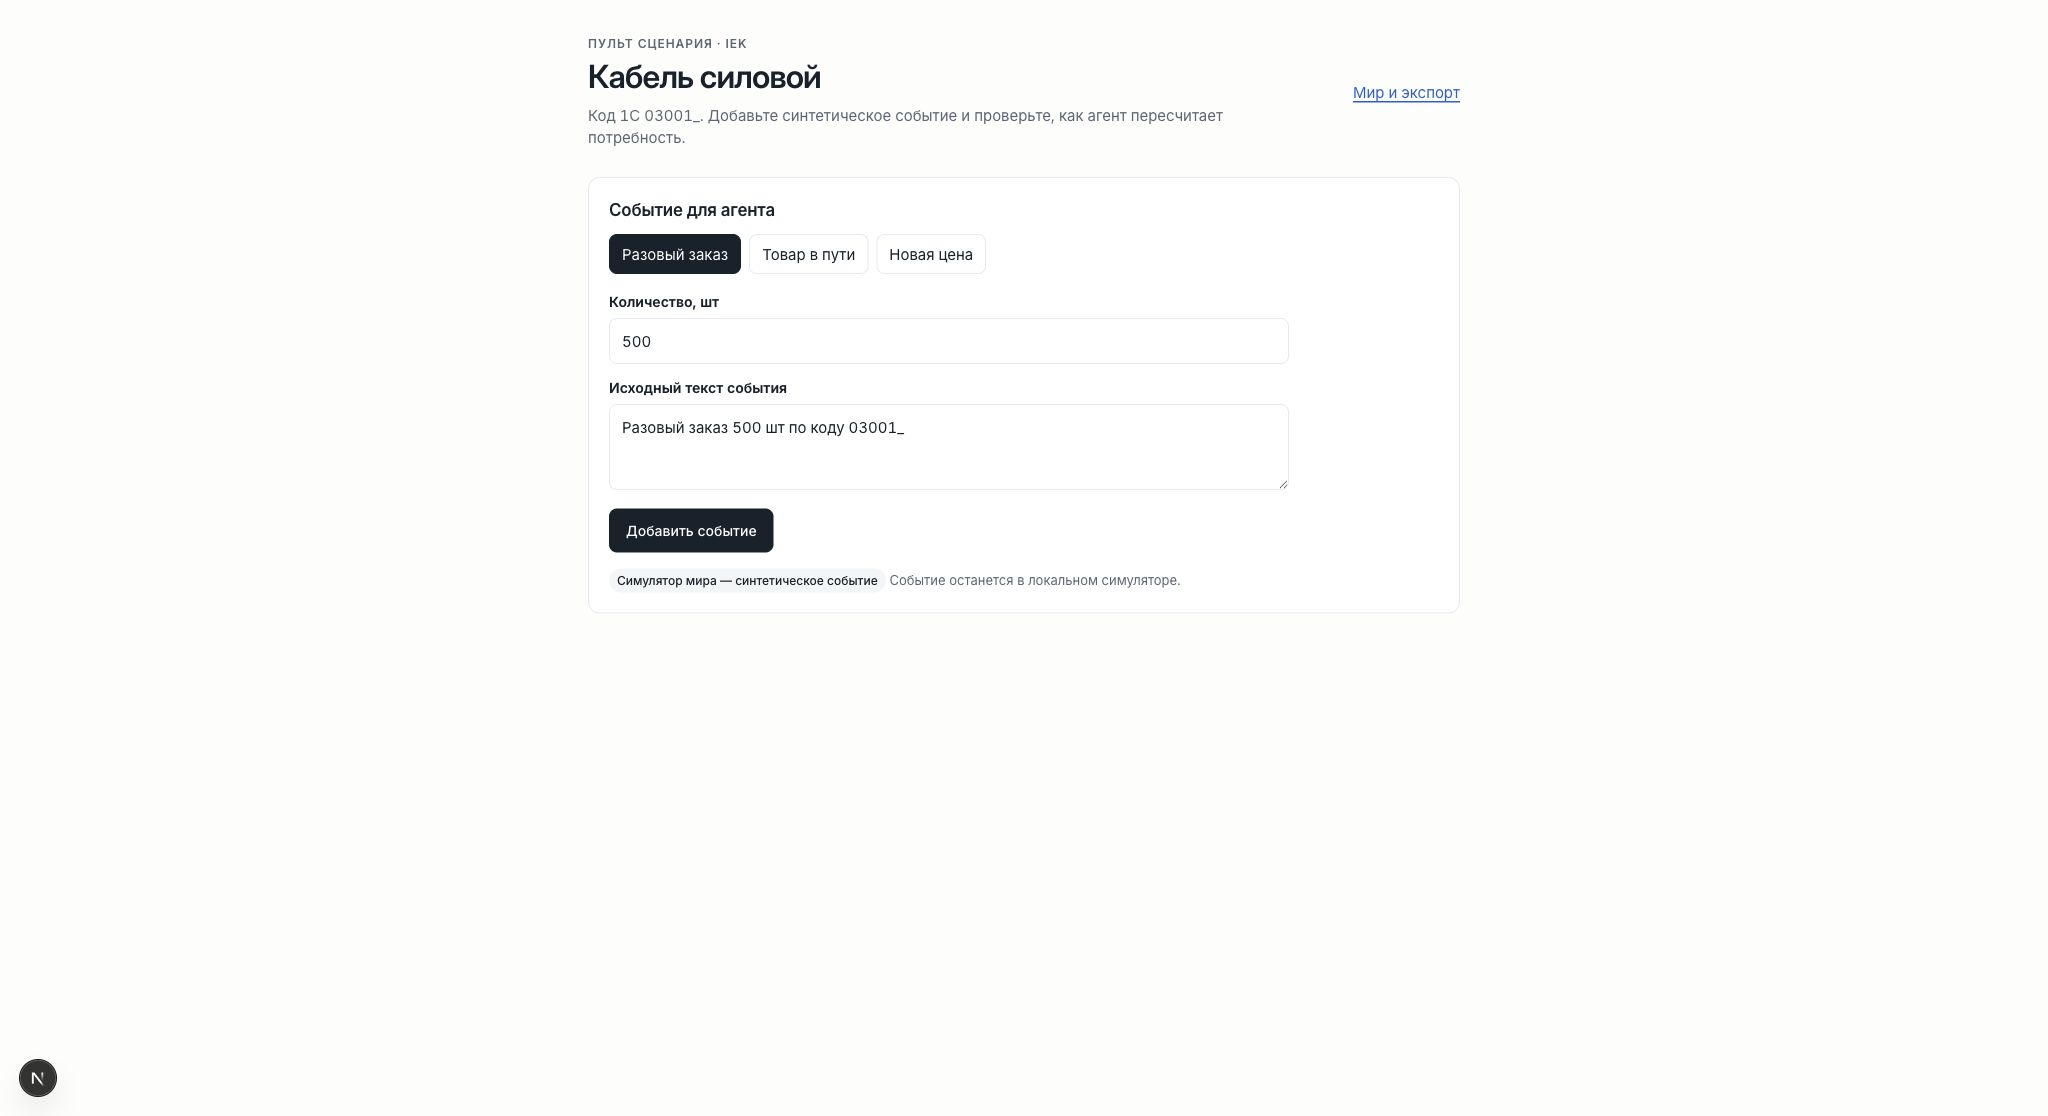
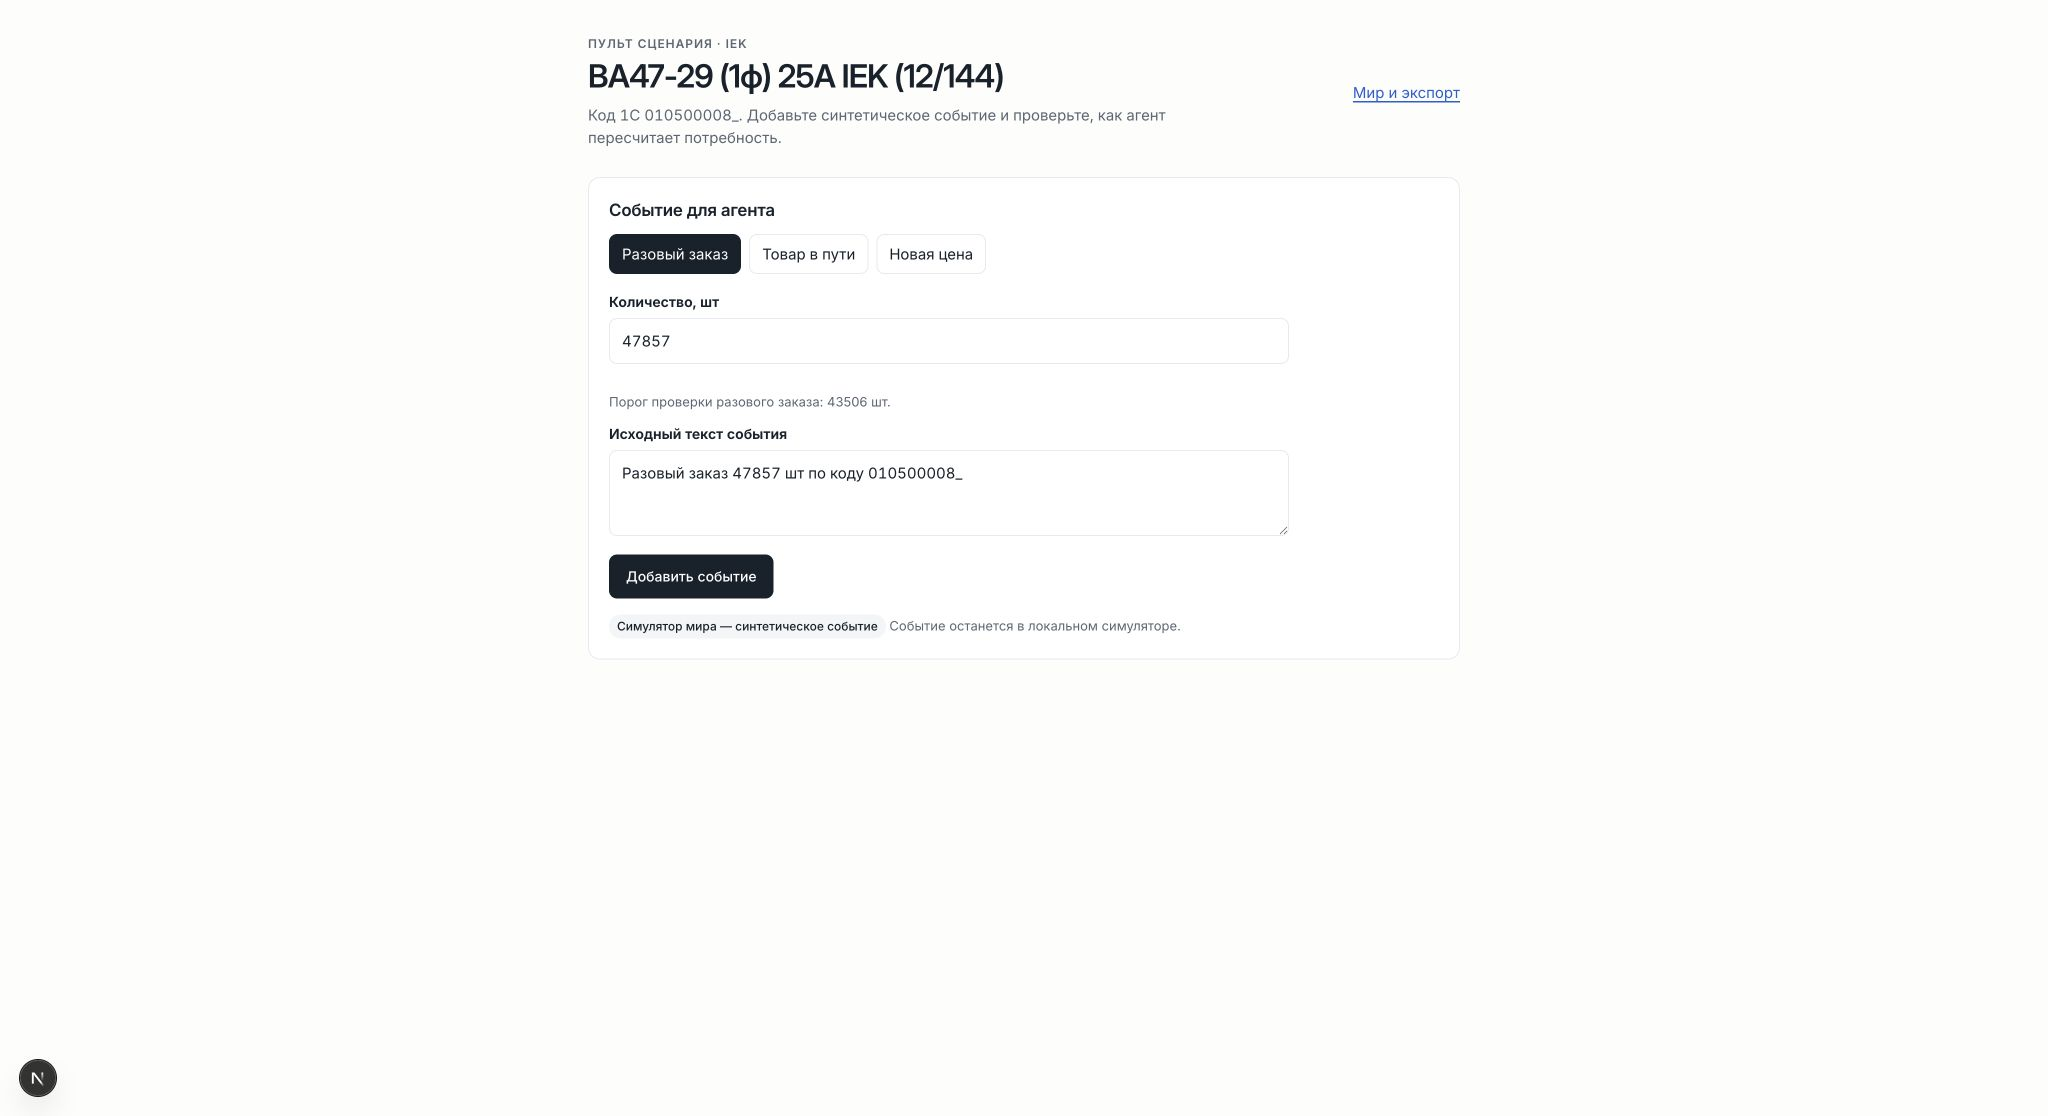
fix(world): align judge compose with merged worker

Changed region(s): [[0.2812, 0.3351, 0.5625, 0.5789], [0.2812, 0.0305, 0.5938, 0.1523], [0.4375, 0.3961, 0.4688, 0.4265]]

diff --git a/src/app/(peers)/world/[code_1c]/JudgeCompose.tsx b/src/app/(peers)/world/[code_1c]/JudgeCompose.tsx
@@ -10,30 +10,30 @@ const kinds: { kind: Kind; label: string }[] = [
   { kind: "in_transit_update", label: "Товар в пути" },
   { kind: "price_update", label: "Новая цена" },
 ];
-function preset(kind: Kind, code: string) {
-  if (kind === "judge_message") return { text: `Разовый заказ 500 шт по коду ${code}`, number: "500" };
+function preset(kind: Kind, code: string, threshold: number) {
+  if (kind === "judge_message") { const qty = Math.max(5000, Math.ceil(threshold * 1.1)); return { text: `Разовый заказ ${qty} шт по коду ${code}`, number: String(qty) }; }
   if (kind === "in_transit_update") return { text: `Товар в пути +100 шт по коду ${code}`, number: "100" };
   return { text: `Цена по коду ${code} = 1200 KZT`, number: "1200" };
 }
 
-export default function JudgeCompose({ code }: { code: string }) {
+export default function JudgeCompose({ code, threshold }: { code: string; threshold: number }) {
   const [kind, setKind] = useState<Kind>("judge_message");
-  const [text, setText] = useState(preset("judge_message", code).text);
-  const [number, setNumber] = useState(preset("judge_message", code).number);
+  const [text, setText] = useState(preset("judge_message", code, threshold).text);
+  const [number, setNumber] = useState(preset("judge_message", code, threshold).number);
   const [busy, setBusy] = useState(false);
   const [error, setError] = useState("");
   const [result, setResult] = useState<{ id: string; state: string; replayed: boolean } | null>(null);
-  function choose(next: Kind) { const p = preset(next, code); setKind(next); setText(p.text); setNumber(p.number); setResult(null); }
+  function choose(next: Kind) { const p = preset(next, code, threshold); setKind(next); setText(p.text); setNumber(p.number); setResult(null); }
   async function submit(event: React.FormEvent) {
     event.preventDefault(); setBusy(true); setError(""); setResult(null);
     const qty = Number(number);
     const now = new Date();
     const priorMonth = new Date(Date.UTC(now.getUTCFullYear(), now.getUTCMonth() - 1, 22, 12)).toISOString();
     const payload = kind === "judge_message"
-      ? { action: "inject_sales_line", document_qty: qty, line: { code_1c: code, qty: number, doc_type: "Расходная накладная", at: priorMonth } }
+      ? { code_1c: code, qty: number, document_qty: qty, threshold, doc_type: "Расходная накладная", at: priorMonth }
       : kind === "in_transit_update"
-        ? { action: "adjust_in_transit", code_1c: code, delta_qty: qty }
-        : { action: "update_unit_cost", code_1c: code, to: number, currency: "KZT" };
+        ? { code_1c: code, delta: qty }
+        : { code_1c: code, unit_cost: number, currency: "KZT" };
     try {
       const response = await fetch("/api/world/compose", { method: "POST", headers: { "content-type": "application/json" }, body: JSON.stringify({ kind, actor_id: "judge", code_1c: code, text, payload }) });
       const body = await response.json();
@@ -46,6 +46,7 @@ export default function JudgeCompose({ code }: { code: string }) {
     <div className={styles.choiceRow} role="group" aria-label="Тип события">{kinds.map((item) => <button key={item.kind} type="button" className={styles.choice} aria-pressed={kind === item.kind} onClick={() => choose(item.kind)}>{item.label}</button>)}</div>
     <form className={styles.form} onSubmit={submit}>
       <div><label className={styles.label} htmlFor="judge-number">{kind === "price_update" ? "Цена, KZT" : "Количество, шт"}</label><input id="judge-number" className={styles.input} type="number" min={kind === "price_update" ? "0.01" : "1"} step={kind === "price_update" ? "0.01" : "1"} value={number} onChange={(event) => setNumber(event.target.value)} required /></div>
+      {kind === "judge_message" && <p className={styles.truth}>Порог проверки разового заказа: {threshold} шт.</p>}
       <div><label className={styles.label} htmlFor="judge-text">Исходный текст события</label><textarea id="judge-text" className={styles.input} rows={3} value={text} onChange={(event) => setText(event.target.value)} required /></div>
       <button className={styles.button} disabled={busy || !text.trim() || !number}>Добавить событие</button>
       {error && <p className={styles.error} role="alert">{error}</p>}

diff --git a/src/app/(peers)/world/[code_1c]/page.tsx b/src/app/(peers)/world/[code_1c]/page.tsx
@@ -10,10 +10,12 @@ export const dynamic = "force-dynamic";
 export default async function JudgePage({ params }: { params: Promise<{ code_1c: string }> }) {
   const { code_1c } = await params;
   activeOrg();
-  const sku = db().prepare("SELECT code_1c,name,supplier_id FROM sku WHERE code_1c = ?").get(code_1c) as { code_1c: string; name: string; supplier_id: string } | undefined;
+  const sku = db().prepare("SELECT code_1c,name,supplier_id,median_month_qty,p95_doc_qty FROM sku WHERE code_1c = ?").get(code_1c) as { code_1c: string; name: string; supplier_id: string; median_month_qty: string | null; p95_doc_qty: string | null } | undefined;
   if (!sku) notFound();
+  const finite = (value: string | null) => { const n = Number(value ?? 0); return Number.isFinite(n) && n >= 0 ? n : 0; };
+  const threshold = Math.max(3 * finite(sku.median_month_qty), 5 * finite(sku.p95_doc_qty), 20);
   return <main className={styles.main}>
     <div className={styles.topline}><div><p className={styles.eyebrow}>Пульт сценария · {sku.supplier_id}</p><h1 className={styles.title}>{sku.name}</h1><p className={styles.subtitle}>Код 1С {sku.code_1c}. Добавьте синтетическое событие и проверьте, как агент пересчитает потребность.</p></div><Link className={styles.link} href="/peers">Мир и экспорт</Link></div>
-    <section className={styles.panel}><h2>Событие для агента</h2><JudgeCompose code={sku.code_1c} /></section>
+    <section className={styles.panel}><h2>Событие для агента</h2><JudgeCompose code={sku.code_1c} threshold={threshold} /></section>
   </main>;
 }

diff --git a/tests/peers/world.test.ts b/tests/peers/world.test.ts
@@ -1,9 +1,14 @@
-import { afterEach, beforeEach, describe, expect, it } from "vitest";
+import { afterEach, beforeEach, describe, expect, it, vi } from "vitest";
 import { db, resetInstance } from "../../src/db/client";
 import { composeEvent } from "../../src/world/compose";
 import { feed } from "../../src/world/feed";
 import { play } from "../../src/world/play";
 import { POST as composeRoute } from "../../src/app/api/world/compose/route";
+
+vi.mock("../../src/ai/worker", () => ({
+  tick: vi.fn(async () => ({ runs: [], processed: 0 })),
+  processEvent: vi.fn(async () => ({ run_id: null, actions: 0, escalations: 0, reason: "noop" })),
+}));
 
 beforeEach(() => {
   process.env.DATABASE_PATH = ":memory:";

diff --git a/docs/evidence/peers/INTEGRATION_20260923.md b/docs/evidence/peers/INTEGRATION_20260923.md
@@ -1,0 +1,15 @@
+# L6 integration evidence — 2026-09-23 09:09Z
+
+Local process: `AI_PROVIDER=rules DATABASE_PATH=<worktree>/data/partner.db npm run dev`. No external peer endpoint was used. `npm run demo:reset` loaded 45 `scripted` world events; organization rows = 0, so L6 resolves the single org from the scripted feed.
+
+- `npm run check -- peers`: `passed=9 failed=0 skipped=0 externally-unverified=0`.
+- `npm run build`: passed after the L2b/L3 merge.
+- `POST /api/world/play {"steps":1}`: `WE-001 sales_day processed`, `emitted_at` and `processed_at` present, `processed=1`.
+- `POST /api/world/compose` twice with an identical `in_transit_update` body after L2b/L3 merge: one processed row, second `replayed:true`; `010500006_` in-transit total moved from 30,000 to 30,100 on a separate one-SKU event.
+- A second `in_transit_update` for `130300608_` was `processed`; its recommendation was 700 units and a `supplier_order` proposal entered `needs_review` for IEK. The event's original text stayed on `world_event`.
+- `judge_message` with a top-level 47,857-unit line dated 2026-08-22 was `processed`; the `sales_line` kept that date, and the rules decision recorded `one_off_order=one_off`. `outlier_doc` was still empty for that SKU.
+- `POST /api/world/play {"steps":2}` emitted `WE-002 sales_day processed` and `WE-003 stock_snapshot failed`. L2b's `applyWorldEvent` reads top-level payload or `lines`/`rows`, while L9's stock snapshot uses `payload.stocks`; the same mismatch affects L9's `judge_message` action presets (`payload.line`, `delta_qty`, `to`). L2b owns that interpreter.
+- `agent_run` rows remained 0 and `run_id` used `RUN-STUB-*`; L1's persisted ledger seam has not landed. The full ledger gate is unverified.
+- `npm run demo:reset` succeeds at its default DB path. `DATABASE_PATH=/tmp/l6-partner.db npm run demo:reset` fails because the ETL child writes the default `data/partner.db` while reset opens `/tmp/l6-partner.db`; this is outside L6's edit scope.
+
+Screenshots in this directory: partner feed, peer view, judge compose, supplier draft, supplier confirmation. The PO export HTTP path implemented here is `/api/peers/onec-export/:po_id`; `/api/orders/:id/export.(xlsx|csv)` still needs its owning route.

diff --git a/docs/agent_handoffs/L6_CHECKPOINT.md b/docs/agent_handoffs/L6_CHECKPOINT.md
@@ -1,6 +1,6 @@
-# L6 checkpoint — reframe integration
-done: world API, judge and supplier channels, file export, /peers; event payloads aligned to L9/L2b.
-done: peer check 9/9; build GREEN; partner reset 45 events, real HTTP play/compose/dedupe GREEN.
-undone: full L2b/L3 worker gate, /api/orders/:id/export handoff, closeout.
-resumable: merge main now, rerun world→worker→proposal and approved PO→file gates.
+# L6 checkpoint — merged worker gate
+done: world API, judge/supplier channels, file export, /peers; partner HTTP event→recommendation→proposal verified.
+done: peer check 9/9 and build GREEN; play one row processed; compose replayed; screenshots/evidence saved.
+undone: full 45-event replay (WE-003 stock_snapshot fails in L2b); persisted ledger (L1 stub); /api/orders/:id/export route.
+resumable: root fixes L2b payload.stocks/action mapping and L1 ledger/routes, then reruns the integration gate.
 sha: HEAD (the commit containing this checkpoint).
